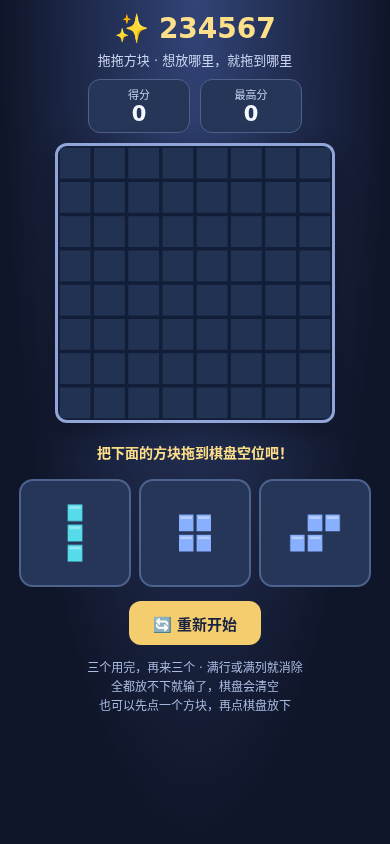
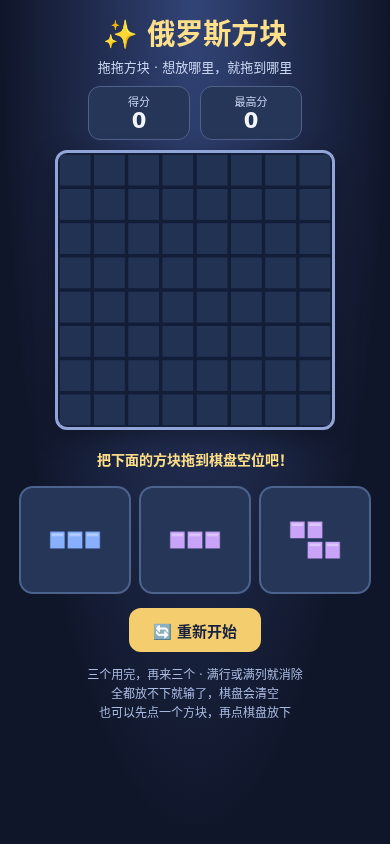
fix: rename game to 俄罗斯方块 without gameplay changes

Changed region(s): [[0.0308, 0.3697, 0.9538, 0.8626], [0.1231, 0.0, 0.8615, 0.3081]]

diff --git a/index.html b/index.html
@@ -1,5 +1,5 @@
 <!doctype html>
-<html lang="zh-CN"><head><meta charset="utf-8"><meta name="viewport" content="width=device-width,initial-scale=1,viewport-fit=cover"><meta name="theme-color" content="#11182f"><title>234567 · 拖拖方块</title><style>
+<html lang="zh-CN"><head><meta charset="utf-8"><meta name="viewport" content="width=device-width,initial-scale=1,viewport-fit=cover"><meta name="theme-color" content="#11182f"><title>俄罗斯方块</title><style>
 *{box-sizing:border-box}body{margin:0;background:radial-gradient(ellipse at top,#324477,#10162a 70%);color:#f5f7ff;font-family:system-ui,-apple-system,"Microsoft YaHei",sans-serif;min-height:100svh}.app{width:min(100%,380px);margin:auto;padding:12px 14px 20px;text-align:center}h1{color:#ffe08a;font-size:28px;margin:0 0 3px}p{margin:5px 0;font-size:13px;color:#c8d4f0}.stats{display:flex;justify-content:center;gap:10px;margin:10px 0}.stat{background:#263659;border:1px solid #50628b;border-radius:12px;padding:6px 15px;min-width:102px}.stat small{display:block;font-size:11px;color:#c8d4f0}.stat strong{font-size:21px}.board{position:relative;width:min(280px,100%);margin:10px auto;aspect-ratio:1;border:3px solid #91a5d8;border-radius:12px;overflow:hidden;background:#121d38;touch-action:none;box-shadow:0 8px 24px #0005}canvas{display:block;width:100%;height:100%}.message{min-height:38px;margin:8px 0;font-size:14px;font-weight:bold;color:#ffe08a;display:grid;place-items:center}.tray{display:flex;gap:8px;justify-content:center;touch-action:none}.piece{position:relative;flex:1;min-width:0;height:108px;background:#263659;border:2px solid #4c638d;border-radius:14px;touch-action:none;cursor:grab;padding:8px}.piece.selected{border-color:#ffe08a;background:#35446a}.piece:disabled{opacity:.35;cursor:default}.piece canvas{width:100%;height:100%}.actions{display:flex;justify-content:center;gap:10px;margin:14px 0}button{font:inherit;color:inherit;-webkit-tap-highlight-color:transparent}#restart{padding:11px 24px;background:#f4cd6e;color:#172241;border:0;border-radius:12px;font-size:15px;font-weight:bold;min-height:44px;cursor:pointer}.ghost{position:fixed;pointer-events:none;z-index:5;opacity:.86;display:none;filter:drop-shadow(0 5px 8px #0008)}.overlay{position:absolute;inset:0;display:grid;place-content:center;background:#0b1631de;padding:20px}.overlay[hidden]{display:none}.overlay strong{font-size:26px;color:#ffe08a}.overlay p{font-size:14px;line-height:1.7}.flash{animation:flash .35s ease-out}@keyframes flash{50%{border-color:#fff;box-shadow:0 0 28px #70f6d4}}footer{font-size:12px;color:#aabce3;line-height:1.6}.piece:focus-visible,#restart:focus-visible{outline:3px solid white;outline-offset:2px}@media(max-height:700px){.app{padding-top:7px}.board{width:240px;margin:6px auto}.piece{height:90px}.message{margin:4px 0;min-height:32px}.stats{margin:6px 0}.actions{margin:10px 0}}
 @media(max-height:620px){.app{padding-top:5px}.board{width:200px}.piece{height:78px}.message{min-height:28px}.actions{margin:8px 0}}
-</style></head><body><main class="app"><h1>✨ 234567</h1><p>拖拖方块 · 想放哪里，就拖到哪里</p><div class="stats"><div class="stat"><small>得分</small><strong id="score">0</strong></div><div class="stat"><small>最高分</small><strong id="best">0</strong></div></div><div class="board" id="boardWrap"><canvas id="board" width="320" height="320" aria-label="八乘八方块棋盘"></canvas><div id="overlay" class="overlay" hidden><strong>这局结束啦！</strong><p id="final"></p></div></div><div class="message" id="message" aria-live="polite">把下面的方块拖到棋盘空位吧！</div><div class="tray" aria-label="三个可拖动的方块"><button class="piece" data-slot="0" aria-label="拖动第一个方块"><canvas width="120" height="100"></canvas></button><button class="piece" data-slot="1" aria-label="拖动第二个方块"><canvas width="120" height="100"></canvas></button><button class="piece" data-slot="2" aria-label="拖动第三个方块"><canvas width="120" height="100"></canvas></button></div><div class="actions"><button id="restart">🔄 重新开始</button></div><footer>三个用完，再来三个 · 满行或满列就消除<br>全都放不下就输了，棋盘会清空<br>也可以先点一个方块，再点棋盘放下</footer></main><canvas id="ghost" class="ghost"></canvas><script src="game.js"></script></body></html>
+</style></head><body><main class="app"><h1>✨ 俄罗斯方块</h1><p>拖拖方块 · 想放哪里，就拖到哪里</p><div class="stats"><div class="stat"><small>得分</small><strong id="score">0</strong></div><div class="stat"><small>最高分</small><strong id="best">0</strong></div></div><div class="board" id="boardWrap"><canvas id="board" width="320" height="320" aria-label="八乘八方块棋盘"></canvas><div id="overlay" class="overlay" hidden><strong>这局结束啦！</strong><p id="final"></p></div></div><div class="message" id="message" aria-live="polite">把下面的方块拖到棋盘空位吧！</div><div class="tray" aria-label="三个可拖动的方块"><button class="piece" data-slot="0" aria-label="拖动第一个方块"><canvas width="120" height="100"></canvas></button><button class="piece" data-slot="1" aria-label="拖动第二个方块"><canvas width="120" height="100"></canvas></button><button class="piece" data-slot="2" aria-label="拖动第三个方块"><canvas width="120" height="100"></canvas></button></div><div class="actions"><button id="restart">🔄 重新开始</button></div><footer>三个用完，再来三个 · 满行或满列就消除<br>全都放不下就输了，棋盘会清空<br>也可以先点一个方块，再点棋盘放下</footer></main><canvas id="ghost" class="ghost"></canvas><script src="game.js"></script></body></html>

diff --git a/README.md b/README.md
@@ -1,4 +1,4 @@
-# 234567 · 拖拖方块
+# 俄罗斯方块
 
 在线：https://zhaosongli.github.io/tetris-web/
 
